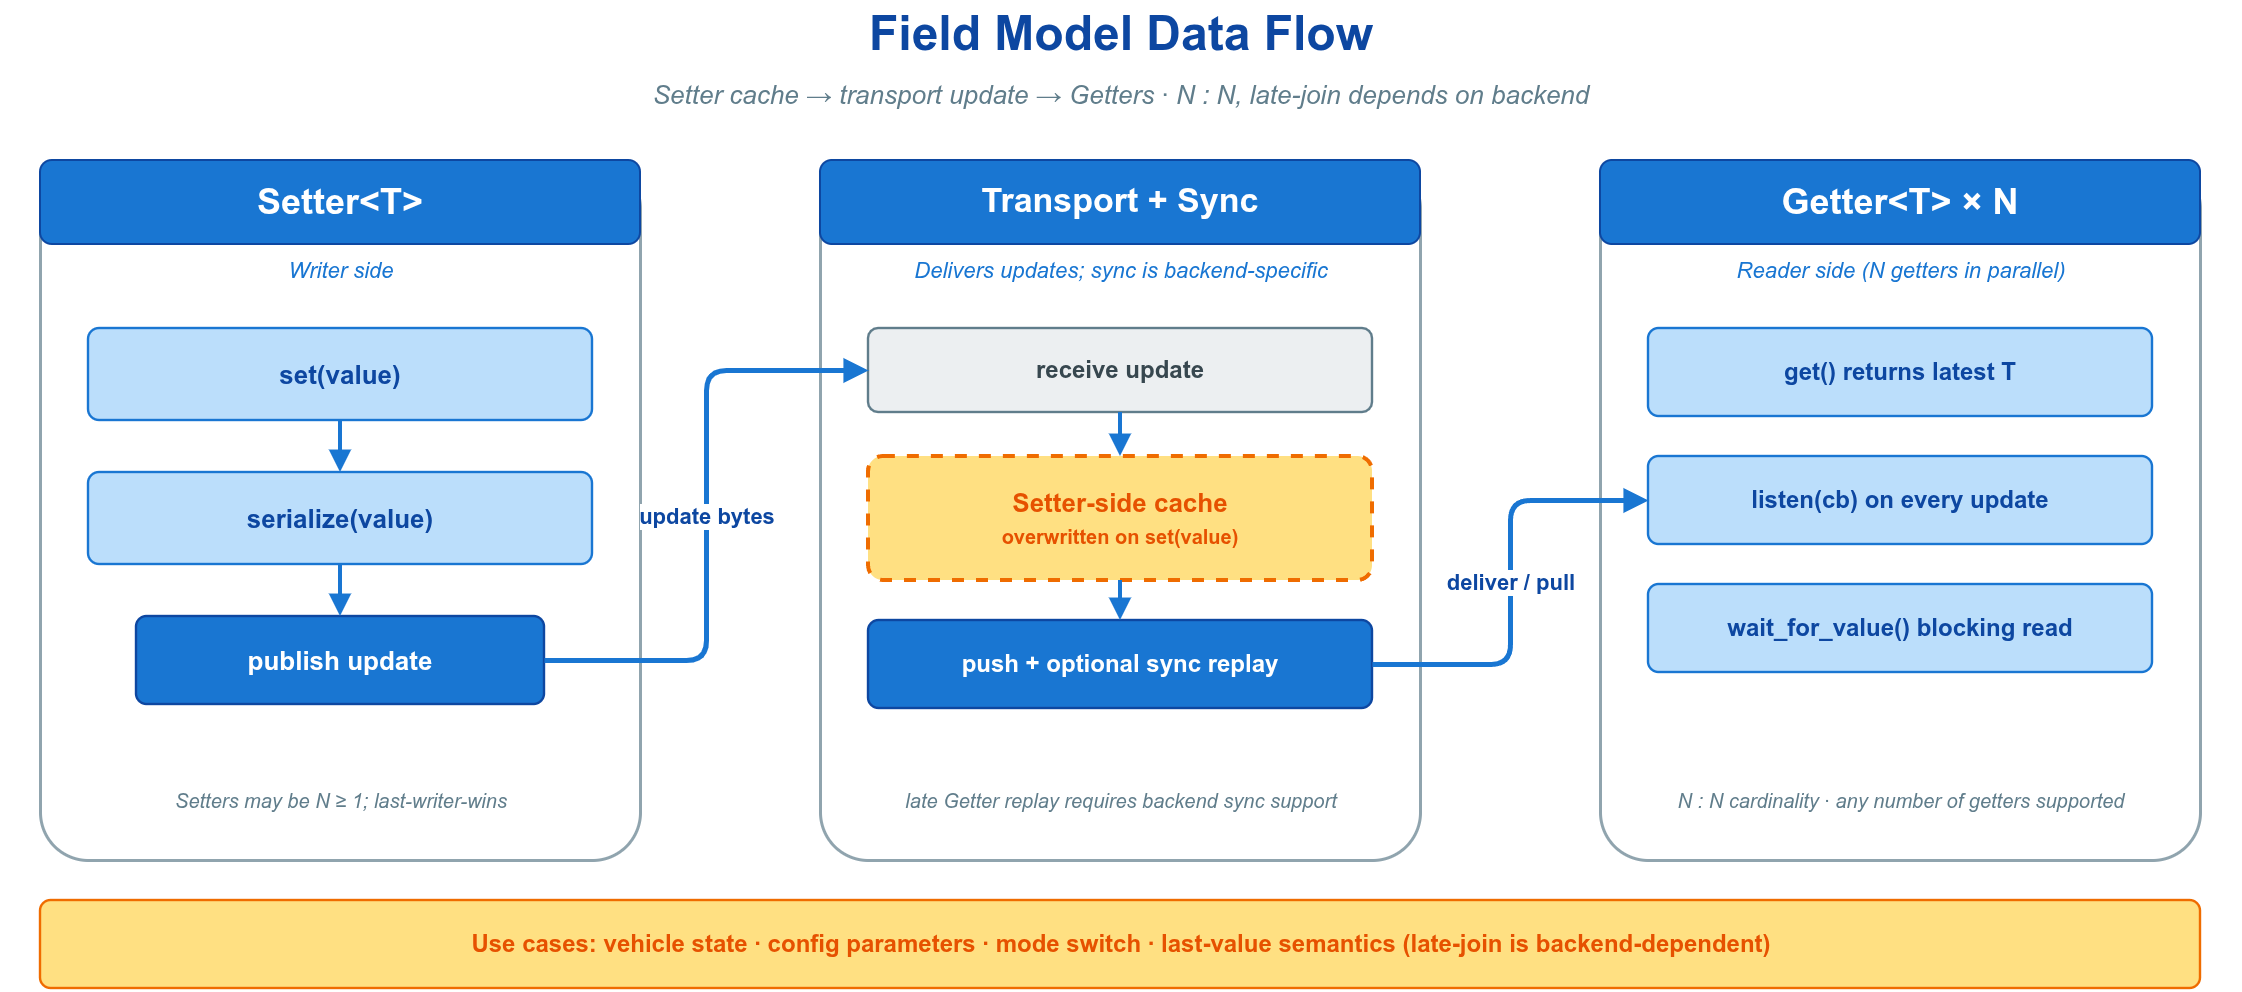
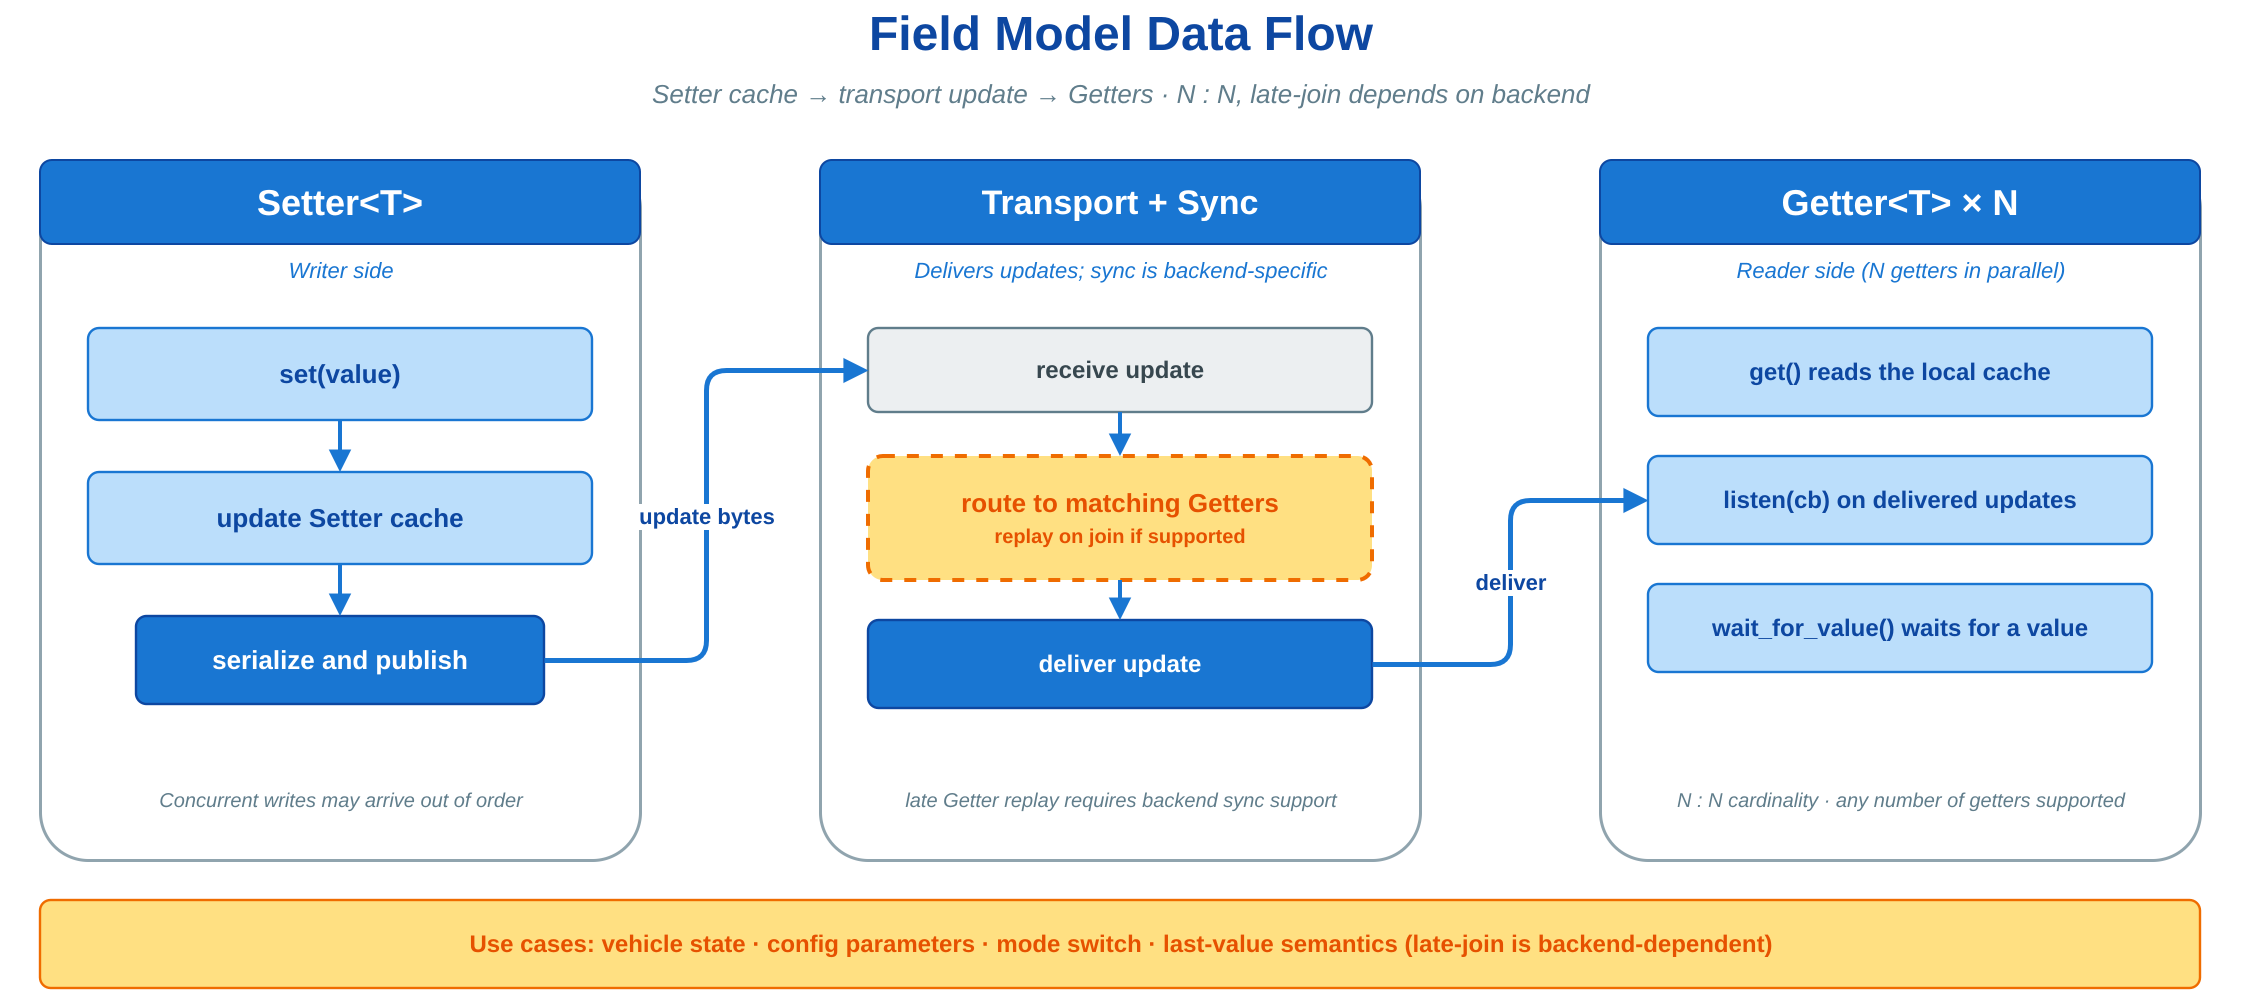
docs(core): clarify field read and concurrent write semantics

diff --git a/doc/02-communication.md b/doc/02-communication.md
@@ -735,7 +735,7 @@ server.listen([&](const Req& req, Resp& resp) {
 
 ## 🗄 2.5 字段模型（Setter / Getter）
 
-字段模型用于在节点之间同步"当前状态值"。它只维护单一最新值而不保留历史队列：写端 `Setter<T>` 每次写入覆盖并广播当前值，读端 `Getter<T>` 读到的始终是最近一次写入的内容。其语义对应配置参数、传感器读数、运行状态等"只关心当前值、不关心历史序列"的需求。
+字段模型用于在节点之间同步"当前状态值"。它只维护单一最新值而不保留历史队列：写端 `Setter<T>` 每次写入覆盖并广播当前值，读端 `Getter<T>` 返回本地最近一次成功更新的值。其语义对应配置参数、传感器读数、运行状态等"只关心当前值、不关心历史序列"的需求。
 
 ### 2.5.1 🗺 状态语义与模型
 
@@ -770,7 +770,7 @@ int main() {
 
 ### 2.5.3 ✍ Setter 核心 API
 
-写端构造时绑定 URL，随后反复调用 `set()` 刷新当前值。
+写端构造时绑定 URL，随后反复调用 `set()` 刷新当前值。同一 Setter 上的写入若有重叠，缓存更新顺序与广播顺序可能不同。需要确定写入顺序时，由调用方依次调用 `set()`。
 
 | 方法 | 语义 |
 | --- | --- |
